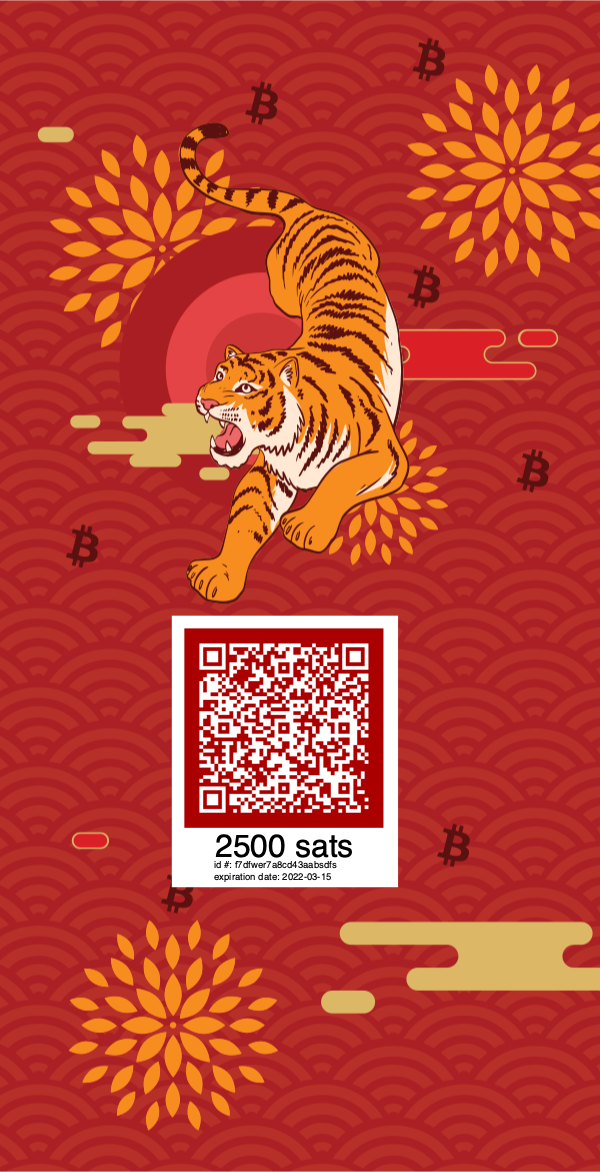
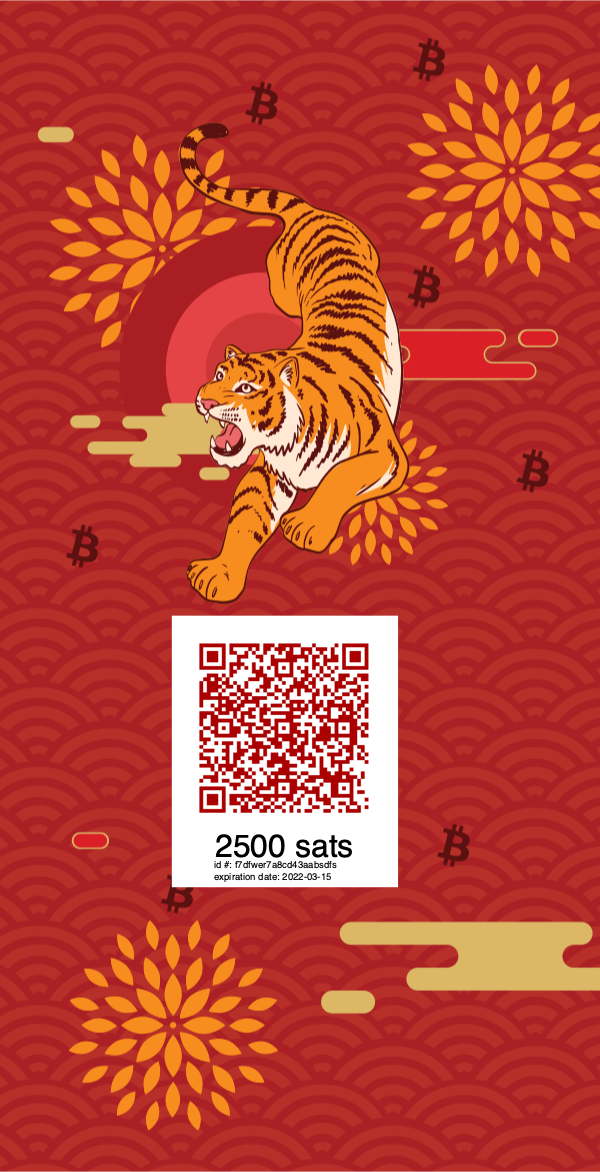
update qr code colors

Changed region(s): [[0.3, 0.5222, 0.66, 0.7065]]

diff --git a/template_test.py b/template_test.py
@@ -31,7 +31,7 @@ def create_laisee_qrcode(lnurl: str, idnumber: str, expires: str, sats: str):
     pyqr = pyqrcode.create(lnurl)
 
     # change your QR code foreground and background colors here
-    pyqr.png(lnurl_file, scale=3, module_color=[255,255,255,255], background=[170, 0, 0])
+    pyqr.png(lnurl_file, scale=3, module_color=[170,0,0,255], background=[255, 255, 255])
 
     with open('templates/inlet_tiger_cut.svg', 'r') as f:
         templ = f.read()
